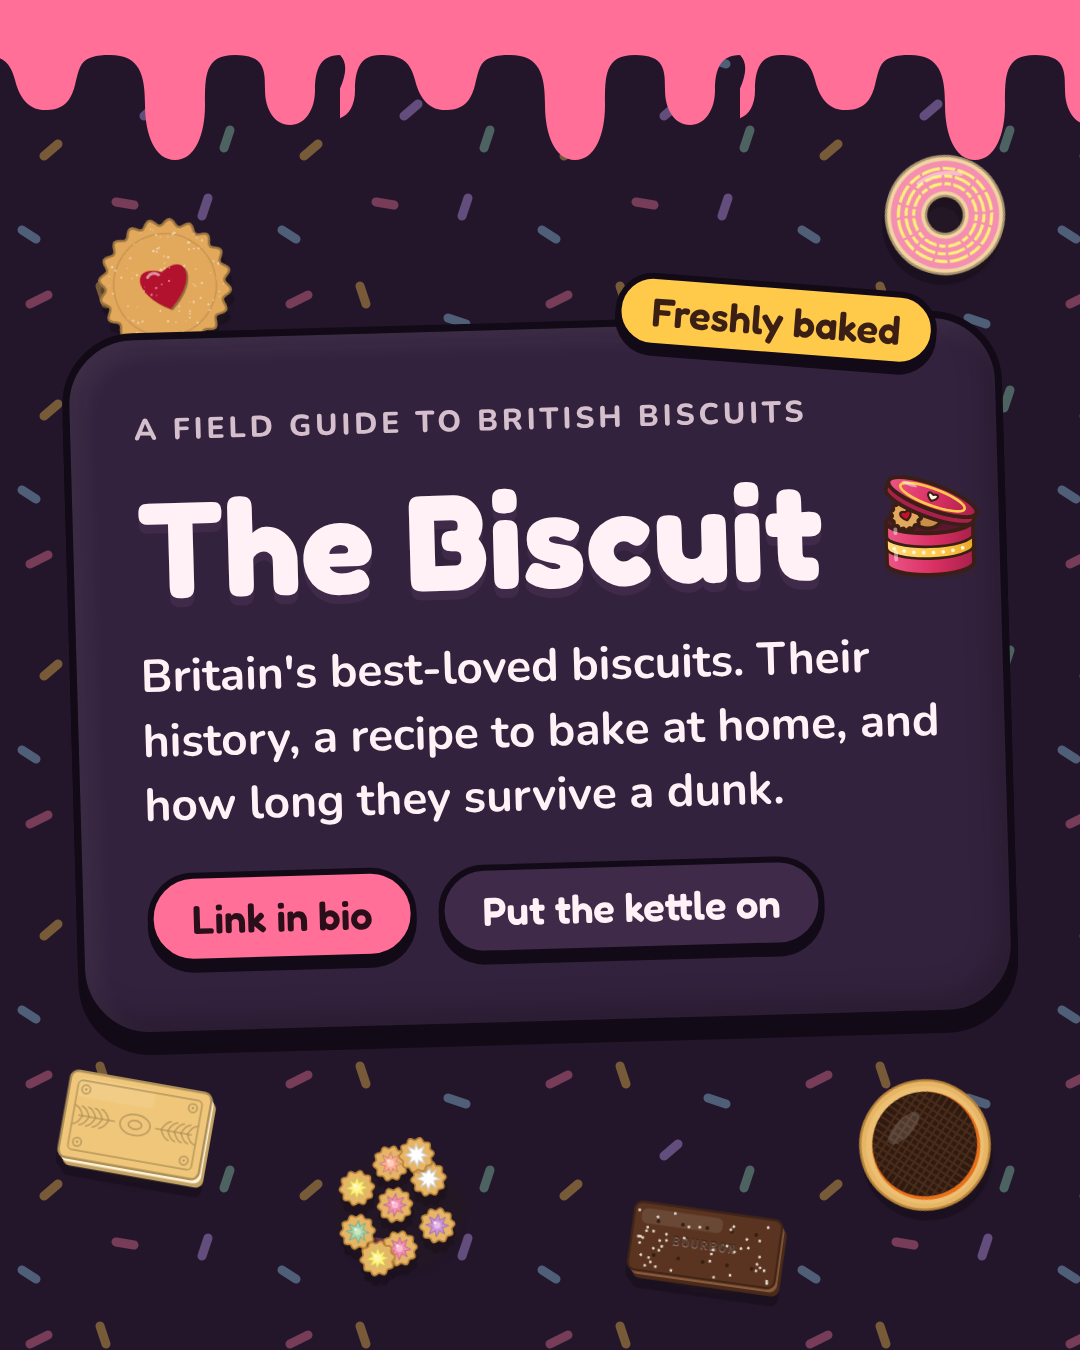
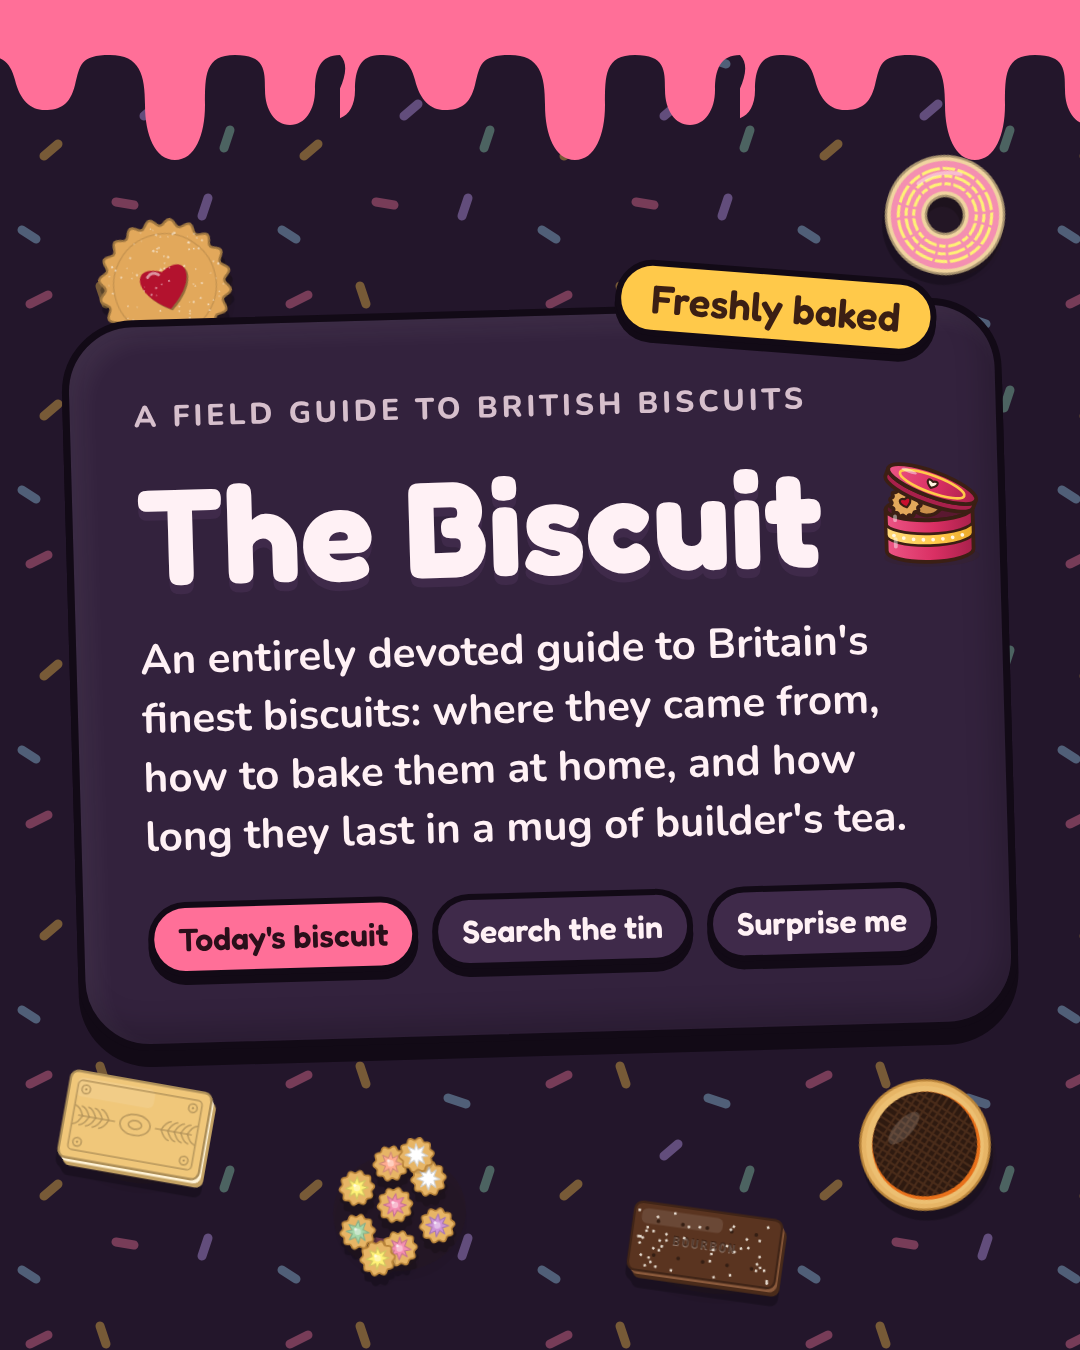
Match the Instagram welcome post's copy to the website hero
Uses the hero's description and its three buttons (Today's biscuit,
Search the tin, Surprise me), with the buttons sized to fit the card.

Claude-Session: https://claude.ai/code/session_01HJPL3UFeiLfv43CpUoEPsK

Changed region(s): [[0.0611, 0.1867, 0.9472, 0.7778], [0.7944, 0.3422, 0.9167, 0.4356]]

diff --git a/brand/instagram/posts.html b/brand/instagram/posts.html
@@ -64,10 +64,10 @@
     --w: 1.02em; width: var(--w); vertical-align: baseline;
     margin: calc(var(--w) * -0.166) 0 calc(var(--w) * -0.117) 0.04em;
   }
-  #welcome p { font-size: 46px; line-height: 1.4; font-weight: 700; margin: 0; color: var(--glow); }
-  #welcome .pills { display: flex; gap: 22px; flex-wrap: wrap; margin-top: 6px; }
+  #welcome p { font-size: 42px; line-height: 1.4; font-weight: 700; margin: 0; color: var(--glow); }
+  #welcome .pills { display: flex; gap: 14px; flex-wrap: nowrap; margin-top: 6px; }
   #welcome .pill {
-    font-family: Fredoka; font-weight: 600; font-size: 40px; padding: 16px 38px; border-radius: 999px;
+    font-family: Fredoka; font-weight: 600; font-size: 32px; padding: 12px 24px; border-radius: 999px; white-space: nowrap;
     border: 6px solid var(--night); box-shadow: 0 8px 0 var(--night); background: var(--card-2); color: var(--glow);
   }
   #welcome .pill.go { background: var(--pinky); color: #2a0f1a; }
@@ -127,8 +127,9 @@
   <div class="card">
     <p class="eyebrow">A field guide to British biscuits</p>
     <h1>The Biscuit <img src="../logo-mark.svg" alt="Tin"></h1>
-    <p>Britain's best-loved biscuits. Their history, a recipe to bake at home, and how long they survive a dunk.</p>
-    <div class="pills"><span class="pill go">Link in bio</span><span class="pill">Put the kettle on</span></div>
+    <!-- copy and buttons match the website's hero -->
+    <p>An entirely devoted guide to Britain's finest biscuits: where they came from, how to bake them at home, and how long they last in a mug of builder's tea.</p>
+    <div class="pills"><span class="pill go">Today's biscuit</span><span class="pill">Search the tin</span><span class="pill">Surprise me</span></div>
   </div>
 </section>
 
